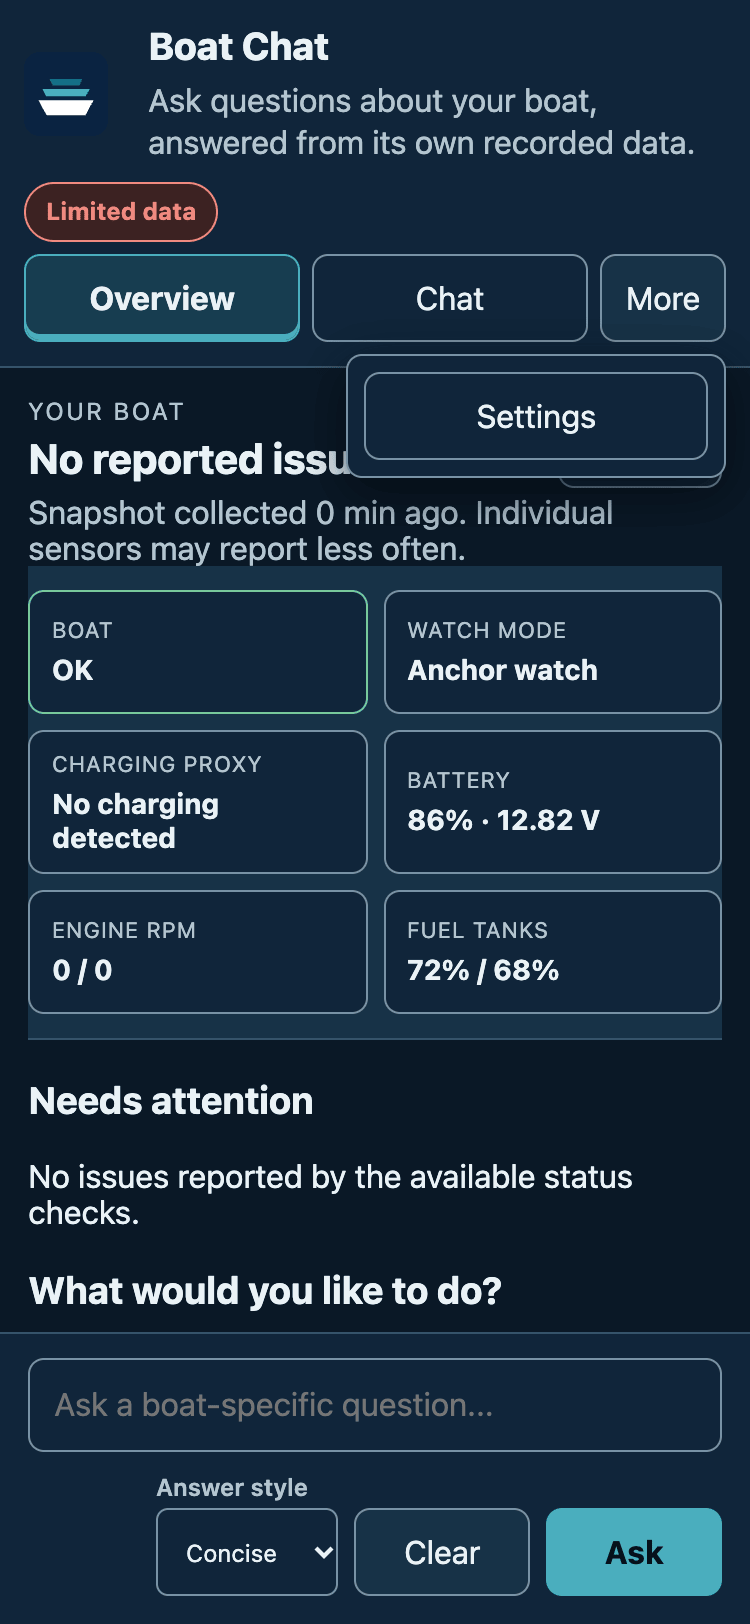
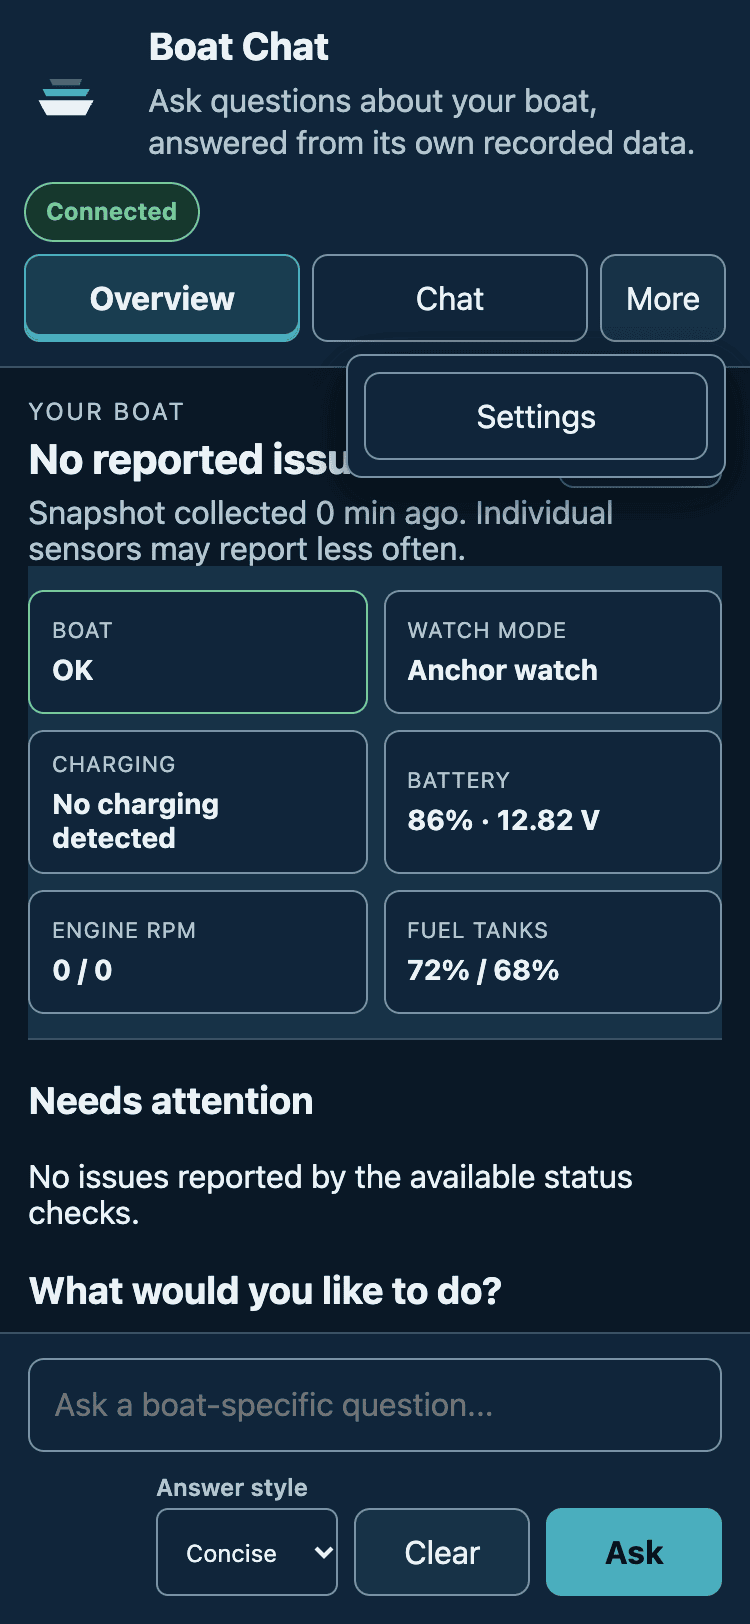
Final 0.6.0 polish: screenshot, wording, upgrade note, numeric field preservation

Changed region(s): [[0.0307, 0.0924, 0.3067, 0.1539], [0.2453, 0.4618, 0.3373, 0.4926]]

diff --git a/control-panel/static/app.js b/control-panel/static/app.js
@@ -729,11 +729,13 @@ function fieldMarkup(spec, value) {
   if (spec.kind === "select") {
     input = `<select id="${id}" name="${spec.key}" data-read-only="${spec.read_only}"${described}${readOnly}>${spec.choices.map((choice) => `<option value="${escapeHtml(choice)}" ${choice === value ? "selected" : ""}>${escapeHtml(optionLabel(spec.key, choice))}</option>`).join("")}</select>`;
   } else {
-    const type = spec.kind === "secret" ? "password" : ["number", "port"].includes(spec.kind) ? "number" : "text";
+    const type = spec.kind === "secret" ? "password" : "text";
     const shown = spec.kind === "secret" ? "" : escapeHtml(value || "");
     const configured = spec.kind === "secret" && value?.configured;
     const placeholder = spec.kind === "secret" ? (configured ? "••••••••••••" : "Not set") : "";
-    const numeric = spec.kind === "number" ? 'step="any" inputmode="decimal"' : spec.kind === "port" ? 'step="1" min="1" max="65535"' : "";
+    // Numeric settings stay text inputs so a saved value such as "12m" is shown as stored
+    // (a type=number input would display it blank and the next Save would clear it).
+    const numeric = spec.kind === "number" ? 'inputmode="decimal"' : spec.kind === "port" ? 'inputmode="numeric"' : "";
     const secretAttrs = spec.kind === "secret" ? ' autocomplete="new-password"' : ' autocomplete="off"';
     input = `<input id="${id}" name="${spec.key}" type="${type}" data-read-only="${spec.read_only}"${described} value="${shown}" placeholder="${placeholder}" ${numeric}${secretAttrs} spellcheck="false"${readOnly}>`;
   }

diff --git a/README.md b/README.md
@@ -457,6 +457,13 @@ on a mounted external drive, not while underway.
   contacts GitHub only when you press **Check for updates**. Stored settings and keys are
   unchanged. Boat Chat's credentials are labelled **Access code** and **Admin code**; the
   variable names are unchanged.
+- **The Control Panel checks a few settings as you save.** The timezone must be a valid IANA
+  name such as `Europe/Lisbon` (some legacy aliases such as `US/Eastern` may be rejected on
+  newer systems where they moved to the `tzdata-legacy` package). Boat length must be more
+  than 0 and at most 500, beam more than 0 and at most 100 (plain numbers in metres, no
+  units), and CAN speed a whole number from 10000 to 1000000. The checks apply only to fields
+  you edit, so an existing saved value you do not touch is never rejected or cleared; errors
+  appear next to the field.
 - **Docker Signal K may restart once.** If the update newly preloads the pinned
   `signalk-vesseltwin` 0.2.3 plugin into an already-running Signal K container, the
   installer restarts that container so the plugin loads. An existing preloaded copy is never
@@ -614,7 +621,7 @@ git fetch --tags
 git checkout v0.6.0
 ```
 
-`v0.6.0` is an SSH-signed tag (Ed25519 release key, verified in CI against
+`v0.6.0` is an SSH-signed tag (Ed25519 release key, verified by the release workflow against
 `.github/allowed_signers`). It is published first as a pre-release and marked Latest after the
 maintainer's physical Raspberry Pi install passes; see the [CHANGELOG](CHANGELOG.md). Verify the
 tag yourself (needs `ssh-keygen`, which ships with OpenSSH):

diff --git a/docs/CONTROL_PANEL.md b/docs/CONTROL_PANEL.md
@@ -114,8 +114,11 @@ Nothing changes on the boat until you press **Save** and then **Apply**.
   Services & ports, AIS receiver, Home Assistant and Installation. Advanced
   sections start collapsed; Installation is read-only here.
 - Every field has plain help text. Mistakes show inline, next to the field. The
-  server checks the timezone against the system's timezone list and every
-  plain-number setting against its allowed range, and a save with any problem
+  server checks the timezone against the system's timezone list (a valid IANA
+  name such as `Europe/Lisbon`; some legacy aliases like `US/Eastern` may be
+  rejected on systems that moved them to `tzdata-legacy`), boat length (above 0,
+  up to 500 m), beam (above 0, up to 100 m) and CAN speed (whole number, 10000
+  to 1000000). Only fields you edit are checked, and a save with any problem
   is rejected with a message per field, so nothing is half-saved.
 - Secrets are write-only. The panel reports only whether one is set; leave a
   secret blank to keep its value, or use the explicit **Clear stored value**

diff --git a/CHANGELOG.md b/CHANGELOG.md
@@ -58,6 +58,7 @@ Semantic Versioning.
 
 ### Fixes
 
+- Control Panel no longer blanks a non-numeric saved boat length or beam on save.
 - Boat Chat: a Settings save could blank the server configuration when settings had failed to
   load. Settings no longer opens without loading, and it saves only the fields you changed.
   Saves that blank `BOAT_CHAT_PROVIDER`, `BOAT_CHAT_MODEL`, `BOAT_CHAT_MAX_TOKENS`,
@@ -143,7 +144,7 @@ Downgrades are refused. Restore the verified pre-update backup that the update t
 
 ### Release status
 
-`v0.6.0` is an SSH-signed tag (Ed25519 release key, verified in CI against `.github/allowed_signers`). It is published first as a pre-release and marked Latest after the maintainer's physical Raspberry Pi install passes.
+`v0.6.0` is an SSH-signed tag (Ed25519 release key, verified by the release workflow against `.github/allowed_signers`). It is published first as a pre-release and marked Latest after the maintainer's physical Raspberry Pi install passes.
 
 ### For contributors
 

diff --git a/docs/DEPLOYMENT.md b/docs/DEPLOYMENT.md
@@ -23,7 +23,7 @@ the scripts in this repository; where a thing does not exist the text says so.
 Related: [INSTALLATION.md](INSTALLATION.md) (hardware and first install),
 [README.md](../README.md) (reference for every variable and command).
 
-0.6.0 release status: `v0.6.0` is an SSH-signed tag (verified in CI against
+0.6.0 release status: `v0.6.0` is an SSH-signed tag (verified by the release workflow against
 `.github/allowed_signers`), published first as a pre-release and marked Latest after the
 maintainer's physical Raspberry Pi install passes (recorded in the CHANGELOG). Physical
 Raspberry Pi acceptance is a separate gate (section 7).
